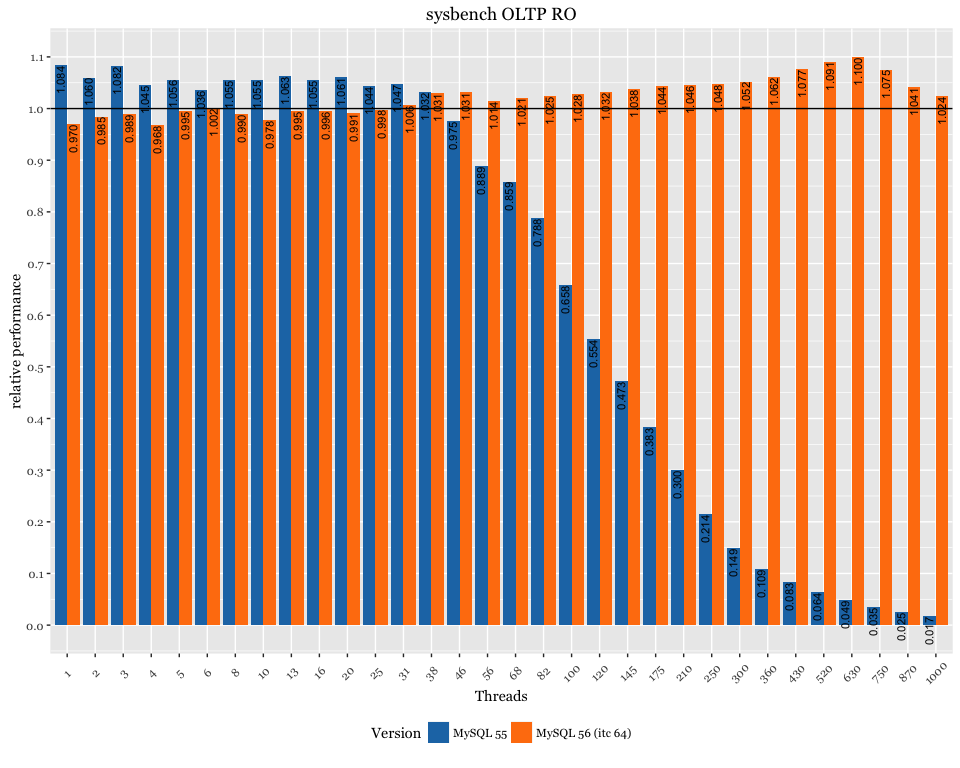
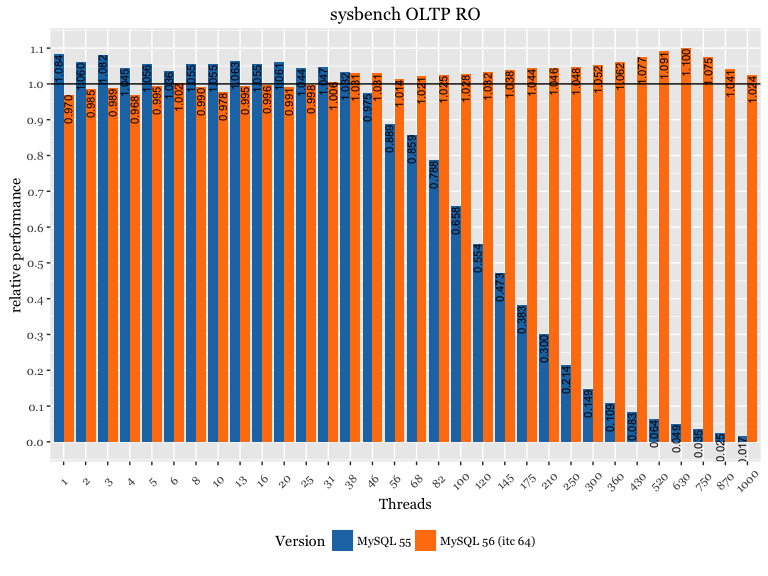
remote OLTP

diff --git a/remote-OLTP/summary/remote-OLTP.md b/remote-OLTP/summary/remote-OLTP.md
@@ -1,5 +1,5 @@
-Percona Server 5.7 - proxy overhead
-===================================
+MySQL 5.7 / 5.6 / 5.5 (10Gb network connection)
+===============================================
 
 Setup
 -----
@@ -13,12 +13,18 @@ Setup
 Results under OLTP RO pareto
 ----------------------------
 
--   MySQL 5.7
+-   MySQL 5.7 / 5.6 / 5.5
+    -   MySQL 5.6 uses `START TRANSACTION READ ONLY`
 
 ![](remote-OLTP_files/figure-markdown_github/versions-1.png)
 
 ### Relative performance
 
--   base value: MySQL 5.7
+-   base value: MySQL 5.7 (horizontal line 1.0)
 
 ![](remote-OLTP_files/figure-markdown_github/perf-schema-relative-1.png)
+
+MySQL 5.6 with `innodb-thread-concurrency=64`
+---------------------------------------------
+
+![](remote-OLTP_files/figure-markdown_github/noSTRO-1.png)
